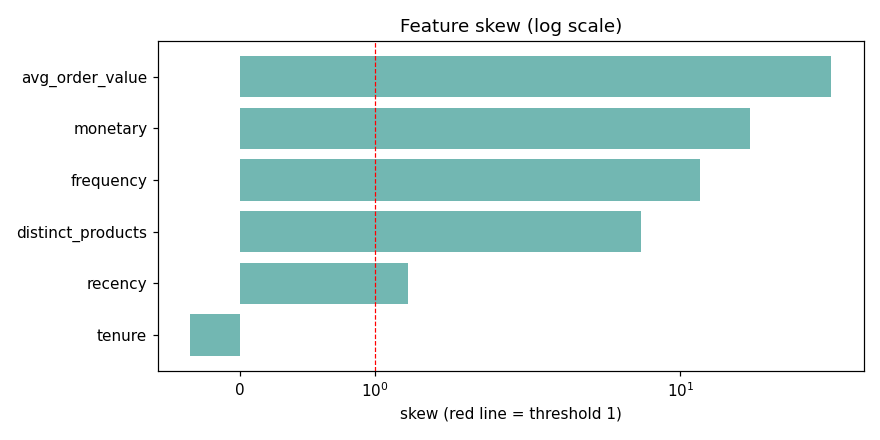
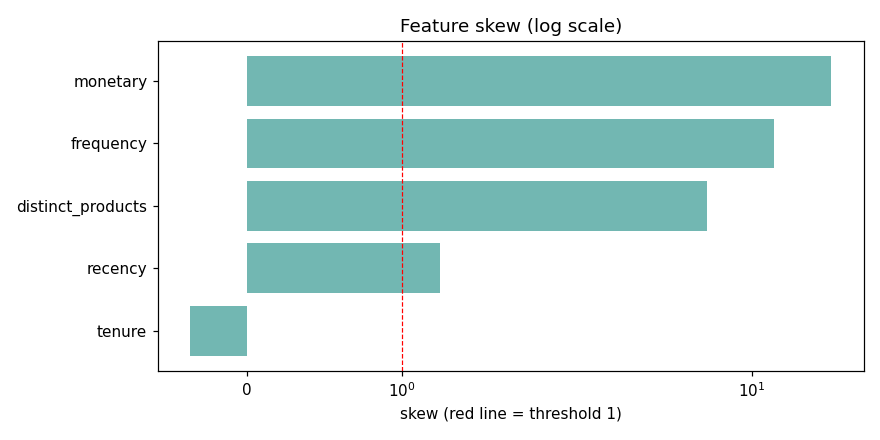
Final feature set: recency, frequency, monetary, distinct_products, tenure (drop avg_order_value)

diff --git a/eda_features.py b/eda_features.py
@@ -31,7 +31,7 @@ REPORT_PATH = REPORT_DIR / "feature_eda_report.md"
 CORR_CSV = REPORT_DIR / "feature_corr.csv"
 
 FEATURES = [
-    "recency", "frequency", "monetary", "avg_order_value",
+    "recency", "frequency", "monetary",
     "distinct_products", "tenure",
 ]
 # Dropped from clustering: basket_size (r=0.93 with avg_order_value),
@@ -44,7 +44,7 @@ DISPLAY_FEATURES = FEATURES + DROPPED_FEATURES + ["return_rate",
                                                   "cancellation_count",
                                                   "cancellation_value"]
 LOG_FEATURES = [
-    "recency", "frequency", "monetary", "avg_order_value",
+    "recency", "frequency", "monetary",
     "distinct_products",
 ]
 
@@ -112,7 +112,7 @@ def main() -> None:
 
     # 3. Outliers
     md.append("\n## 3. Outliers\n")
-    for f in ["monetary", "frequency", "avg_order_value"]:
+    for f in ["monetary", "frequency"]:
         q99 = feat[f].quantile(0.99)
         top = feat[f].max()
         n_over = int((feat[f] > q99).sum())

diff --git a/eda_charts.py b/eda_charts.py
@@ -48,7 +48,7 @@ def main() -> None:
     plt.close(fig)
 
     # 3. Correlation heatmap
-    features = ["recency", "frequency", "monetary", "avg_order_value",
+    features = ["recency", "frequency", "monetary",
                 "distinct_products", "tenure"]
     corr = feat[features].corr()
     fig, ax = plt.subplots(figsize=(7, 6))
@@ -71,7 +71,7 @@ def main() -> None:
     from sklearn.metrics import silhouette_score
     from sklearn.preprocessing import StandardScaler
 
-    log_features = ["recency", "frequency", "monetary", "avg_order_value",
+    log_features = ["recency", "frequency", "monetary",
                     "distinct_products"]
     X = feat[["tenure", "has_cancellation"]].copy()
     for f in log_features:

diff --git a/feature_quality.py b/feature_quality.py
@@ -34,11 +34,11 @@ REPORT_PATH = REPORT_DIR / "feature_quality.md"
 QUALITY_CSV = REPORT_DIR / "feature_quality.csv"
 
 FEATURES = [
-    "recency", "frequency", "monetary", "avg_order_value",
+    "recency", "frequency", "monetary",
     "distinct_products", "tenure",
 ]
 LOG_FEATURES = [
-    "recency", "frequency", "monetary", "avg_order_value",
+    "recency", "frequency", "monetary",
     "distinct_products",
 ]
 

diff --git a/reports/feature_eda_report.md b/reports/feature_eda_report.md
@@ -1,6 +1,6 @@
 # Feature-level EDA — customer feature table
 
-> Customers: **4,338** | Features: **6**
+> Customers: **4,338** | Features: **5**
 
 ## 1. Distributions
 
@@ -9,7 +9,6 @@
 | recency | 91.54 | 100.01 | 50.00 | 1.25 |
 | frequency | 4.27 | 7.70 | 2.00 | 12.07 |
 | monetary | 2,048.69 | 8,985.23 | 668.57 | 19.34 |
-| avg_order_value | 417.65 | 1,796.51 | 291.94 | 41.69 |
 | distinct_products | 61.37 | 85.29 | 35.00 | 6.92 |
 | tenure | 222.31 | 117.89 | 248.00 | -0.37 |
 | basket_size | 252.46 | 1,312.77 | 161.00 | 48.01 |
@@ -19,7 +18,7 @@
 | cancellation_count | 0.83 | 2.15 | 0.00 | 8.83 |
 | cancellation_value | 137.92 | 2,957.92 | 0.00 | 47.47 |
 
-- **Right-skewed (|skew| > 1): recency, frequency, monetary, avg_order_value, distinct_products, basket_size, cadence, cancellation_rate, cancellation_count, cancellation_value** — log-transform these before distance-based clustering.
+- **Right-skewed (|skew| > 1): recency, frequency, monetary, distinct_products, basket_size, cadence, cancellation_rate, cancellation_count, cancellation_value** — log-transform these before distance-based clustering.
 - `tenure` is the only near-symmetric feature (skew -0.37).
 - `return_rate` is **constant 0** — every negative-quantity line in the raw data sat on a C-invoice or a guest checkout, so no returns survive the cleaning policy. Excluded from the clustering feature set: a constant cannot separate clusters.
 
@@ -34,24 +33,23 @@ Full matrix written to `reports\feature_corr.csv`. Strongest absolute pairs (|r|
 
 - `monetary`: p99 = 19,780.49, max = 280,206.02 (44 customers above p99) — wholesale/bulk buyers.
 - `frequency`: p99 = 30.00, max = 209.00 (42 customers above p99) — wholesale/bulk buyers.
-- `avg_order_value`: p99 = 2,031.16, max = 84,236.25 (44 customers above p99) — wholesale/bulk buyers.
 - Recommendation: log-transform + StandardScaler; optionally cap at p99 before clustering.
 
 ## 4. k-selection (elbow + silhouette)
 
 | k | inertia | silhouette |
 |---|---|---|
-| 2 | 16,738 | 0.315 |
-| 3 | 13,813 | 0.271 |
-| 4 | 11,842 | 0.236 |
-| 5 | 10,661 | 0.218 |
-| 6 | 9,708 | 0.221 |
-| 7 | 8,990 | 0.220 |
-| 8 | 8,434 | 0.211 |
-| 9 | 7,938 | 0.203 |
-| 10 | 7,554 | 0.200 |
+| 2 | 12,825 | 0.353 |
+| 3 | 9,940 | 0.314 |
+| 4 | 8,219 | 0.283 |
+| 5 | 7,306 | 0.271 |
+| 6 | 6,618 | 0.244 |
+| 7 | 6,159 | 0.234 |
+| 8 | 5,800 | 0.207 |
+| 9 | 5,481 | 0.211 |
+| 10 | 5,220 | 0.207 |
 
-- **Best silhouette: k = 2** (score 0.315).
+- **Best silhouette: k = 2** (score 0.353).
 - Inertia keeps falling with k (expected); silhouette peaks at the natural cluster count. Confirm with business interpretability of the resulting segments.
 
 ## 5. Next steps

diff --git a/reports/feature_quality.md b/reports/feature_quality.md
@@ -6,12 +6,11 @@
 
 | feature | eta^2 | single-feature silhouette | best k | zero share |
 |---|---|---|---|---|
-| monetary | 0.673 | 0.566 | 2 | 0% |
-| frequency | 0.673 | 0.781 | 5 | 0% |
-| tenure | 0.641 | 0.672 | 2 | 0% |
-| recency | 0.521 | 0.583 | 4 | 2% |
-| distinct_products | 0.516 | 0.556 | 2 | 0% |
-| avg_order_value | 0.247 | 0.540 | 2 | 0% |
+| frequency | 0.723 | 0.781 | 5 | 0% |
+| tenure | 0.682 | 0.672 | 2 | 0% |
+| monetary | 0.619 | 0.566 | 2 | 0% |
+| recency | 0.576 | 0.583 | 4 | 2% |
+| distinct_products | 0.505 | 0.556 | 2 | 0% |
 
 ## How to read this
 
@@ -21,6 +20,6 @@
 
 ## Verdict
 
-- Strongest segment drivers (eta^2): monetary, frequency, tenure, recency.
-- Weakest: recency, distinct_products, avg_order_value.
+- Strongest segment drivers (eta^2): frequency, tenure, monetary, recency.
+- Weakest: monetary, recency, distinct_products.
 - Redundant pairs to collapse: avg_order_value/basket_size (r=0.93), recency/cadence (r=0.89).
